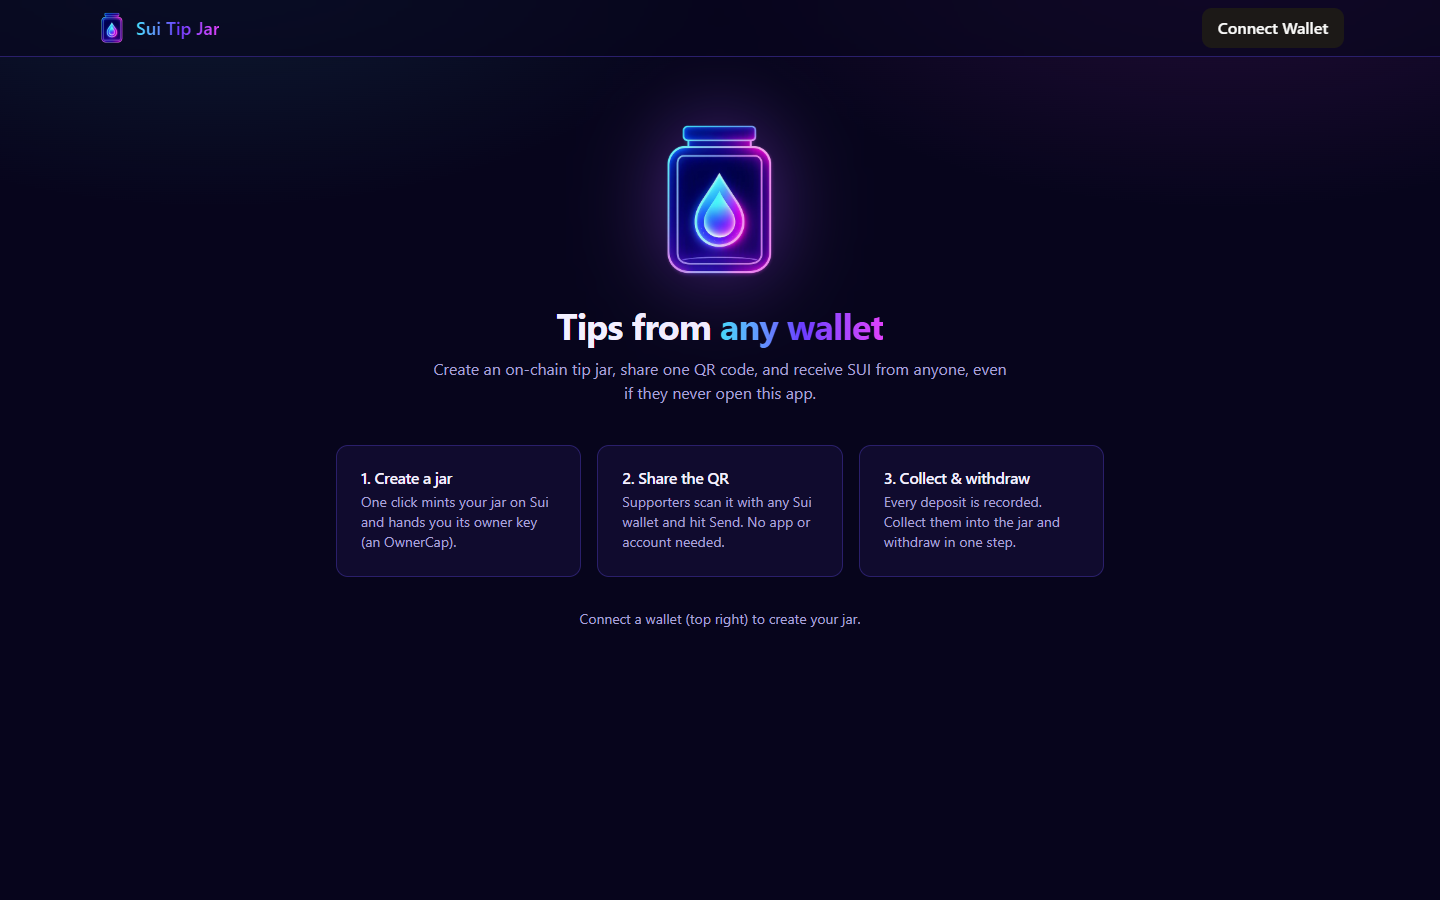
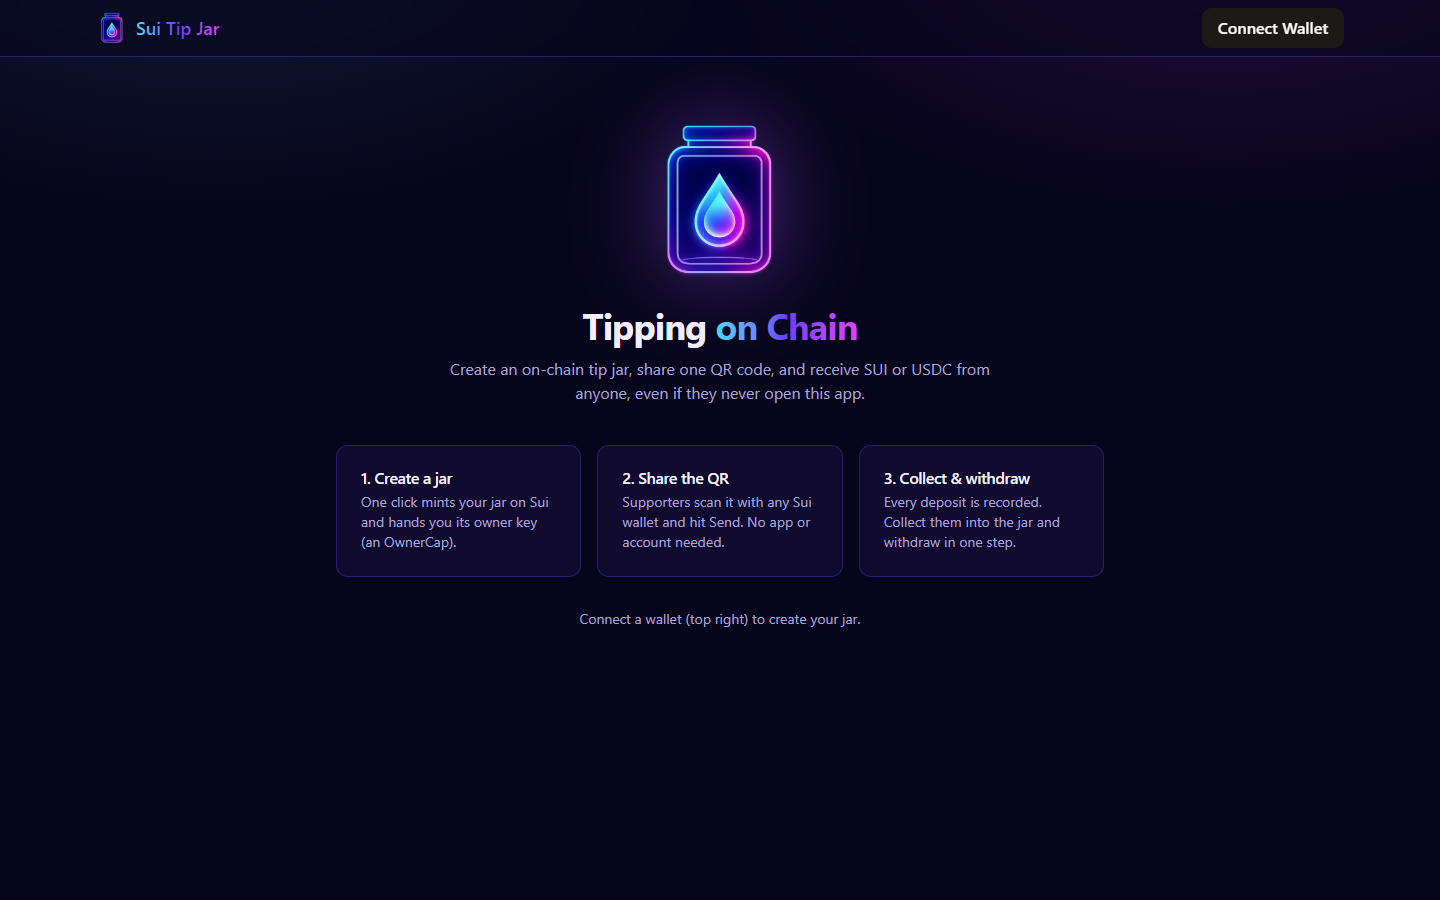
Change home headline to Tipping on Chain

Changed region(s): [[0.3125, 0.3422, 0.6875, 0.4667]]

diff --git a/frontend/src/MyJars.tsx b/frontend/src/MyJars.tsx
@@ -41,11 +41,11 @@ function Welcome() {
         className="mx-auto h-40 w-40 drop-shadow-[0_0_40px_rgb(160_80_255/0.45)]"
       />
       <h1 className="mt-6 text-4xl font-bold tracking-tight">
-        Tips from{" "}
-        <span className="bg-linear-to-r from-sui via-violet to-magenta bg-clip-text text-transparent">any wallet</span>
+        Tipping{" "}
+        <span className="bg-linear-to-r from-sui via-violet to-magenta bg-clip-text text-transparent">on Chain</span>
       </h1>
       <p className="mx-auto mt-3 max-w-xl text-muted-foreground">
-        Create an on-chain tip jar, share one QR code, and receive SUI from anyone, even if they never open this app.
+        Create an on-chain tip jar, share one QR code, and receive SUI or USDC from anyone, even if they never open this app.
       </p>
       <div className="mt-10 grid gap-4 text-left sm:grid-cols-3">
         {STEPS.map((s) => (
